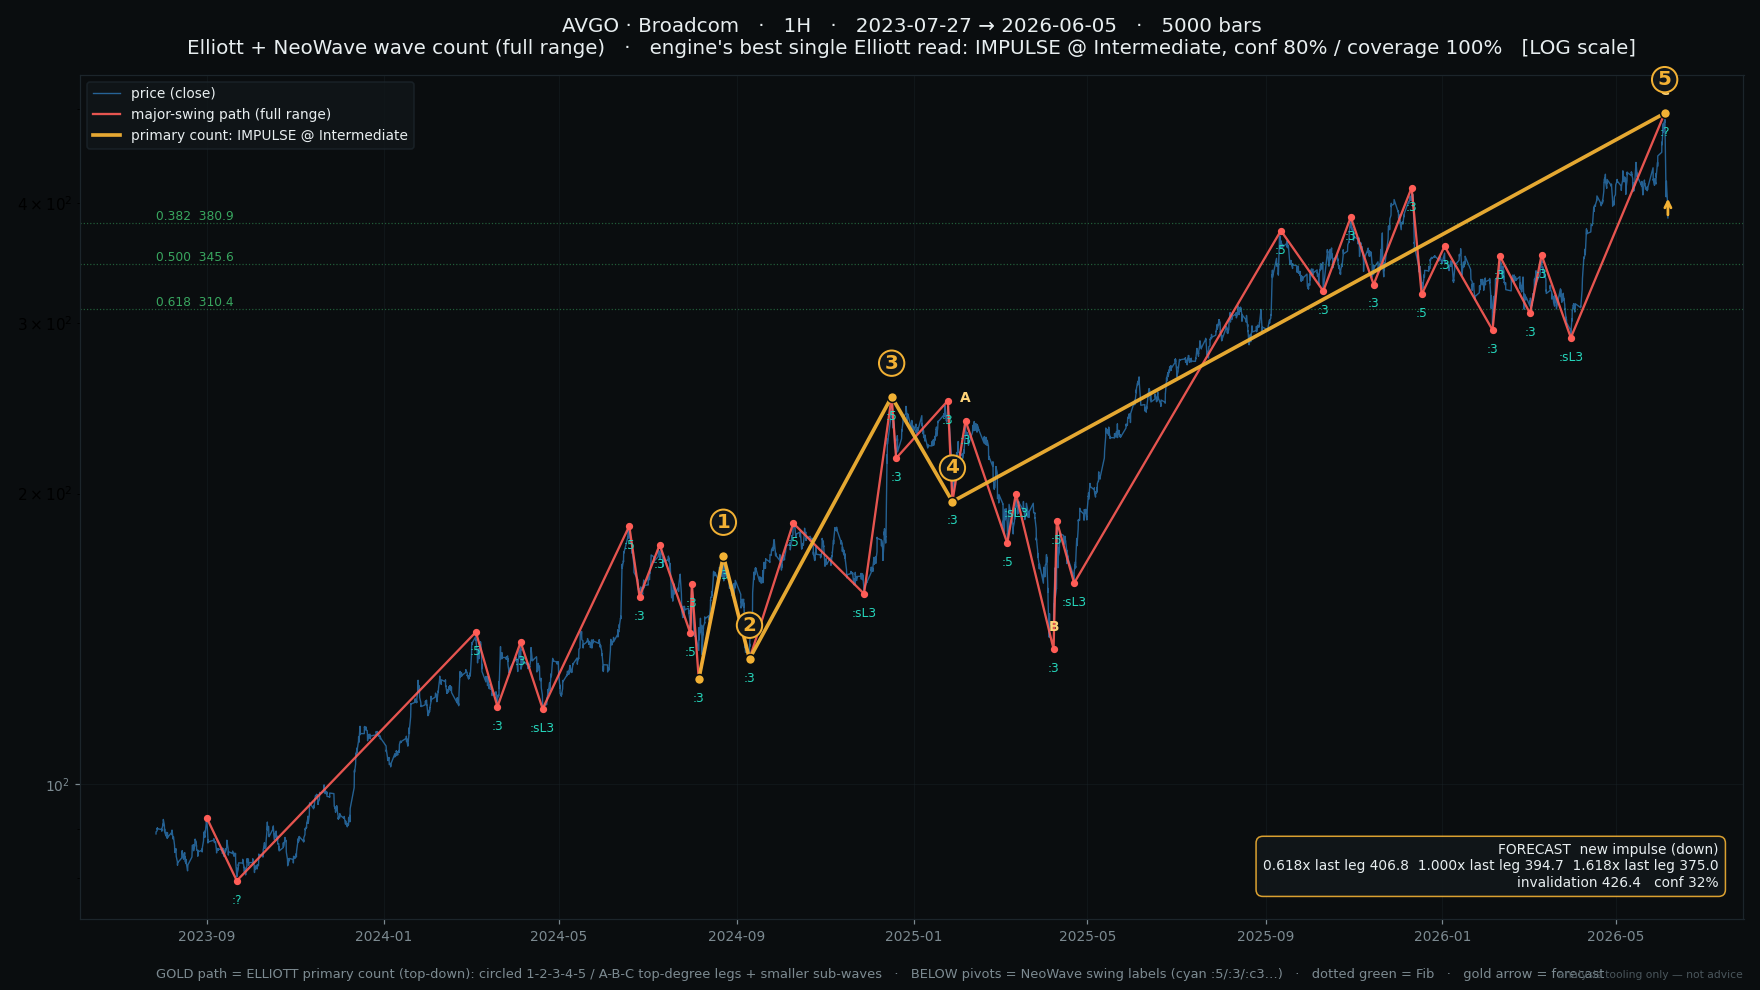
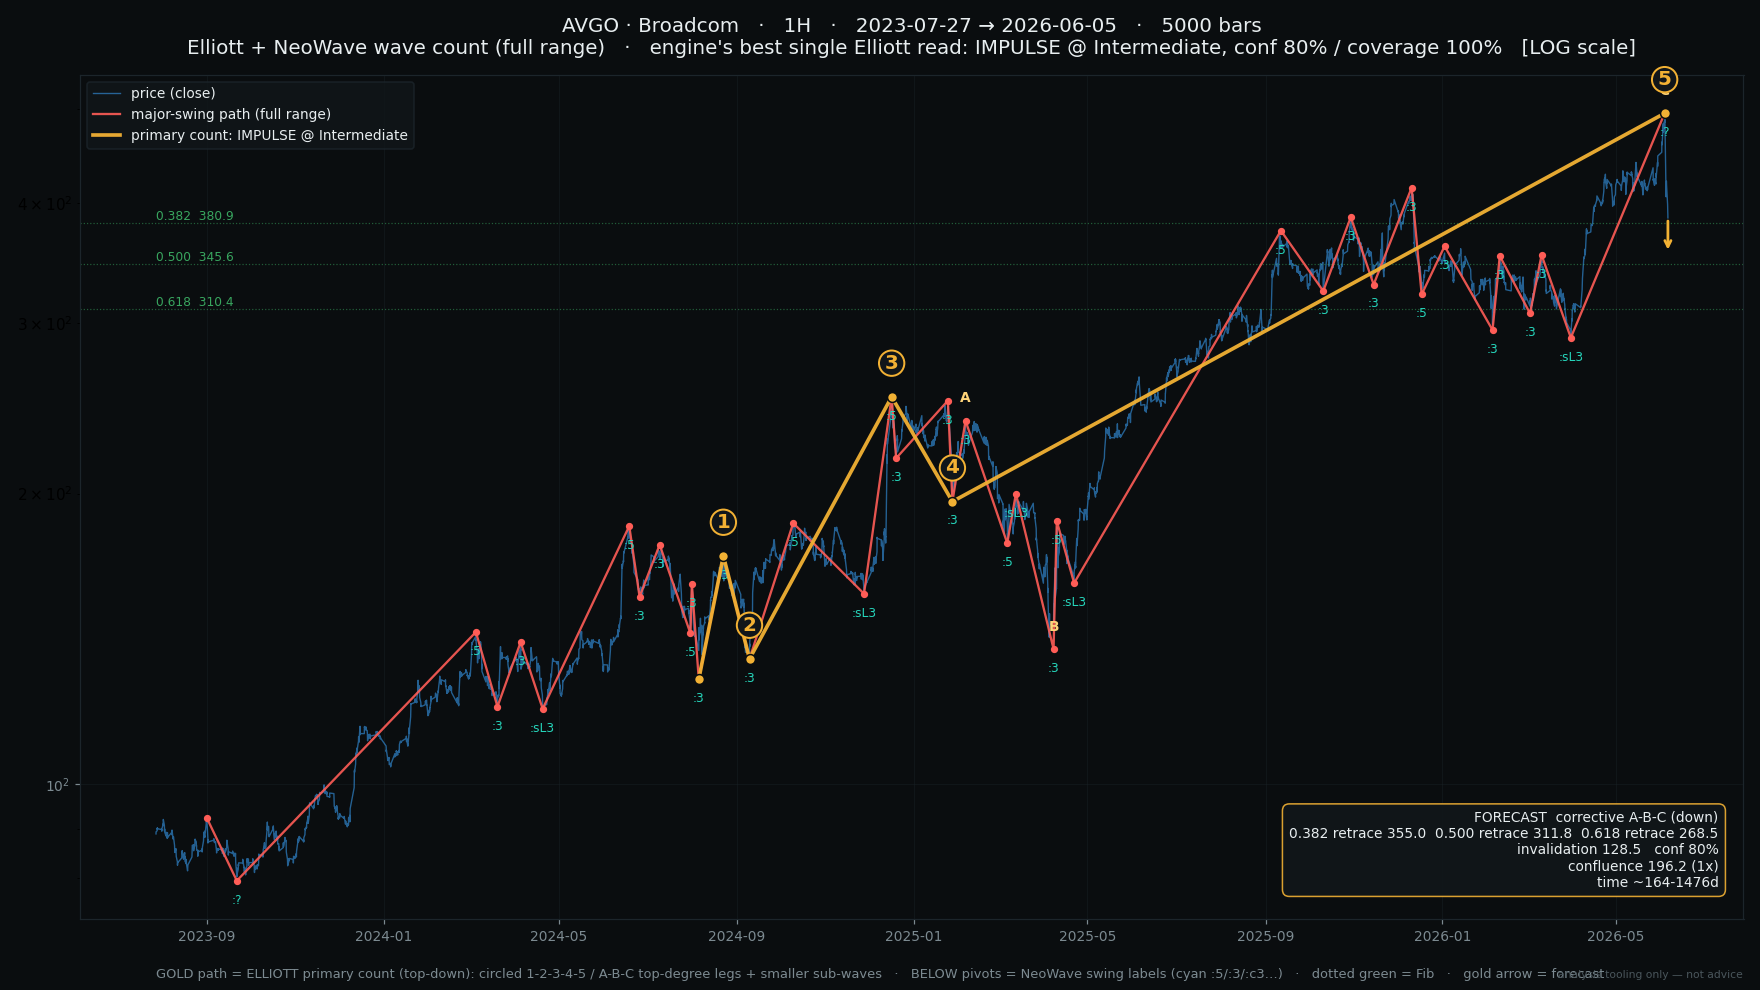
regen: AVGO/MRVL charts + report with phase-4 projection (confluence + time window)

Changed region(s): [[0.7188, 0.8182, 1.0, 0.9091]]

diff --git a/reports/WAVE_COUNTS_AVGO_MRVL.md b/reports/WAVE_COUNTS_AVGO_MRVL.md
@@ -23,7 +23,9 @@ _Computed 2026-06-12 by `scripts/wave_report.py` on the live TradingView snapsho
 - Terminal check (last 5 legs): overlap present (terminal/diagonal)
 - Special structures (last 5 legs): running triangle
 
-**FORECAST**: new impulse (down) → 0.618x last leg $60.92, 1.000x last leg $41.51, 1.618x last leg $10.11 · invalidation $92.32 · conf 11%
+**FORECAST**: corrective A-B-C (down) → 0.382 retrace $257.24, 0.500 retrace $208.63, 0.618 retrace $160.01 · invalidation $2.64 · conf 29%
+- Fibonacci confluence: **$160.01** (1 projections overlap)
+- time: next wave likely completes in ~385-3465 days (NeoWave S&B vs the 1155-day prior wave)
 
 ### AVGO · 1D — 4234 bars, 2009-08-06→2026-06-05, last $385.73
 
@@ -44,7 +46,9 @@ _Computed 2026-06-12 by `scripts/wave_report.py` on the live TradingView snapsho
 - Terminal check (last 5 legs): overlap present (terminal/diagonal)
 - Special structures (last 5 legs): running triangle
 
-**FORECAST**: corrective A-B-C (down) → 0.382 retrace $358.66, 0.500 retrace $316.55, 0.618 retrace $274.44 · invalidation $138.10 · conf 47%
+**FORECAST**: corrective A-B-C (down) → 0.382 retrace $257.24, 0.500 retrace $208.63, 0.618 retrace $160.01 · invalidation $2.64 · conf 29%
+- Fibonacci confluence: **$160.01** (1 projections overlap)
+- time: next wave likely completes in ~385-3462 days (NeoWave S&B vs the 1154-day prior wave)
 
 ### AVGO · 4H — 5000 bars, 2016-06-13→2026-06-05, last $385.74
 
@@ -65,7 +69,9 @@ _Computed 2026-06-12 by `scripts/wave_report.py` on the live TradingView snapsho
 - Terminal check (last 5 legs): no overlap -> directional impulse, not a terminal
 - Special structures (last 5 legs): running triangle
 
-**FORECAST**: new impulse (down) → 0.618x last leg $411.98, 1.000x last leg $360.66, 1.618x last leg $277.64 · invalidation $495.00 · conf 46%
+**FORECAST**: corrective A-B-C (down) → 0.382 retrace $262.17, 0.500 retrace $215.08, 0.618 retrace $168.00 · invalidation $15.57 · conf 67%
+- Fibonacci confluence: **$128.50** (1 projections overlap)
+- time: next wave likely completes in ~164-1477 days (NeoWave S&B vs the 492-day prior wave)
 
 ### AVGO · 1H — 5000 bars, 2023-07-27→2026-06-05, last $385.74
 
@@ -86,7 +92,9 @@ _Computed 2026-06-12 by `scripts/wave_report.py` on the live TradingView snapsho
 - Terminal check (last 5 legs): overlap present (terminal/diagonal)
 - Special structures (last 5 legs): none
 
-**FORECAST**: new impulse (down) → 0.618x last leg $406.80, 1.000x last leg $394.66, 1.618x last leg $375.01 · invalidation $426.45 · conf 32%
+**FORECAST**: corrective A-B-C (down) → 0.382 retrace $355.00, 0.500 retrace $311.75, 0.618 retrace $268.50 · invalidation $128.50 · conf 80%
+- Fibonacci confluence: **$196.23** (1 projections overlap)
+- time: next wave likely completes in ~164-1476 days (NeoWave S&B vs the 492-day prior wave)
 
 ### AVGO · 15M — 5000 bars, 2025-08-28→2026-06-05, last $385.74
 
@@ -104,7 +112,9 @@ _Computed 2026-06-12 by `scripts/wave_report.py` on the live TradingView snapsho
 - Terminal check (last 5 legs): overlap present (terminal/diagonal)
 - Special structures (last 5 legs): none
 
-**FORECAST**: new impulse (up) → 0.618x last leg $486.47, 1.000x last leg $495.00, 1.618x last leg $508.79 · invalidation $472.68 · conf 21%
+**FORECAST**: new impulse (down) → 1.000x (equal legs) $307.24, 1.618x (Blue Box top) $191.20 · invalidation $495.00 · conf 41%
+- Fibonacci confluence: **$191.20** (1 projections overlap)
+- time: next wave likely completes in ~31-279 days (NeoWave S&B vs the 93-day prior wave)
 
 ---
 
@@ -126,8 +136,6 @@ _Computed 2026-06-12 by `scripts/wave_report.py` on the live TradingView snapsho
 - Terminal check (last 5 legs): overlap present (terminal/diagonal)
 - Special structures (last 5 legs): running triangle
 
-**FORECAST**: new impulse (down) → 0.618x last leg $81.60, 1.000x last leg $81.18, 1.618x last leg $80.49 · invalidation $82.29 · conf 10%
-
 ### MRVL · 1D — 5000 bars, 2006-07-21→2026-06-05, last $263.47
 
 **ELLIOTT WAVE**
@@ -147,7 +155,9 @@ _Computed 2026-06-12 by `scripts/wave_report.py` on the live TradingView snapsho
 - Terminal check (last 5 legs): overlap present (terminal/diagonal)
 - Special structures (last 5 legs): neutral triangle, running triangle
 
-**FORECAST**: corrective A-B-C (down) → 0.382 retrace $81.50, 0.500 retrace $74.93, 0.618 retrace $68.36 · invalidation $47.09 · conf 78%
+**FORECAST**: corrective A-B-C (down) → 0.382 retrace $80.49 · invalidation $4.48 · conf 57%
+- Fibonacci confluence: **$80.49** (1 projections overlap)
+- time: next wave likely completes in ~249-2244 days (NeoWave S&B vs the 748-day prior wave)
 
 ### MRVL · 4H — 5000 bars, 2016-06-09→2026-06-05, last $263.47
 
@@ -168,7 +178,9 @@ _Computed 2026-06-12 by `scripts/wave_report.py` on the live TradingView snapsho
 - Terminal check (last 5 legs): overlap present (terminal/diagonal)
 - Special structures (last 5 legs): neutral triangle, running triangle
 
-**FORECAST**: new impulse (down) → 0.618x last leg $223.58, 1.000x last leg $163.08, 1.618x last leg $65.20 · invalidation $321.46 · conf 65%
+**FORECAST**: corrective A-B-C (down) → 0.382 retrace $84.24 · invalidation $14.35 · conf 67%
+- Fibonacci confluence: **$84.24** (1 projections overlap)
+- time: next wave likely completes in ~311-2799 days (NeoWave S&B vs the 933-day prior wave)
 
 ### MRVL · 1H — 5000 bars, 2023-07-27→2026-06-05, last $263.47
 
@@ -186,7 +198,9 @@ _Computed 2026-06-12 by `scripts/wave_report.py` on the live TradingView snapsho
 - Terminal check (last 5 legs): overlap present (terminal/diagonal)
 - Special structures (last 5 legs): running triangle
 
-**FORECAST**: corrective A-B-C (down) → 0.382 retrace $256.44, 0.500 retrace $235.53, 0.618 retrace $214.61 · invalidation $146.89 · conf 48%
+**FORECAST**: new impulse (up) → 1.000x (equal legs) $98.12, 1.618x (Blue Box top) $115.08, 2.618x extension $142.53 · invalidation $70.67 · conf 24%
+- Fibonacci confluence: **$87.63** (1 projections overlap)
+- time: next wave likely completes in ~30-273 days (NeoWave S&B vs the 91-day prior wave)
 
 ### MRVL · 15M — 5000 bars, 2025-08-28→2026-06-05, last $263.47
 
@@ -206,6 +220,8 @@ _Computed 2026-06-12 by `scripts/wave_report.py` on the live TradingView snapsho
 - Terminal check (last 5 legs): no overlap -> directional impulse, not a terminal
 - Special structures (last 5 legs): none
 
-**FORECAST**: corrective A-B-C (down) → 0.382 retrace $274.71, 0.500 retrace $259.43, 0.618 retrace $244.15 · invalidation $194.70 · conf 59%
+**FORECAST**: new impulse (up) → 1.000x (equal legs) $102.75, 1.618x (Blue Box top) $122.58, 2.618x extension $154.66 · invalidation $70.67 · conf 31%
+- Fibonacci confluence: **$90.50** (1 projections overlap)
+- time: next wave likely completes in ~21-189 days (NeoWave S&B vs the 63-day prior wave)
 
 ---
